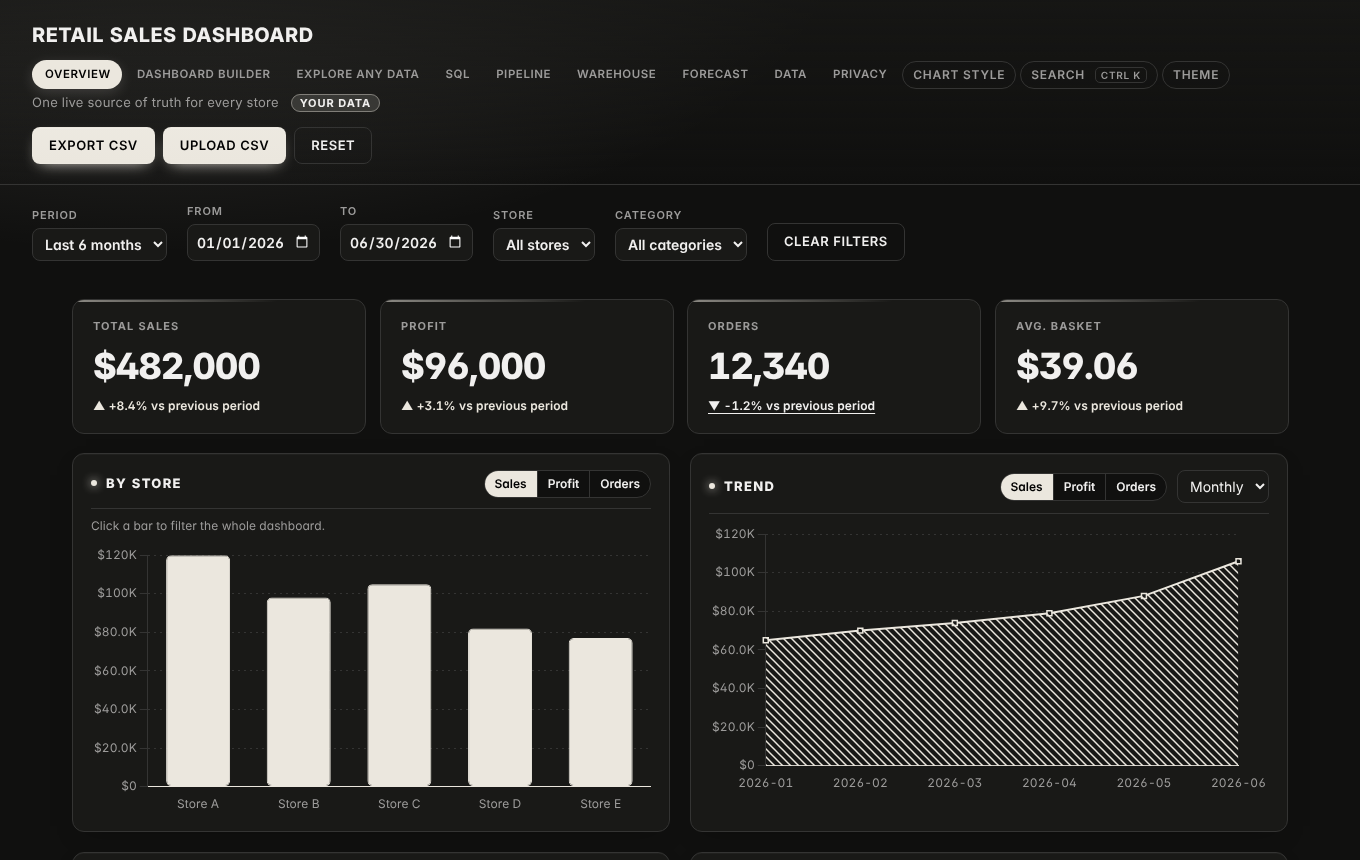
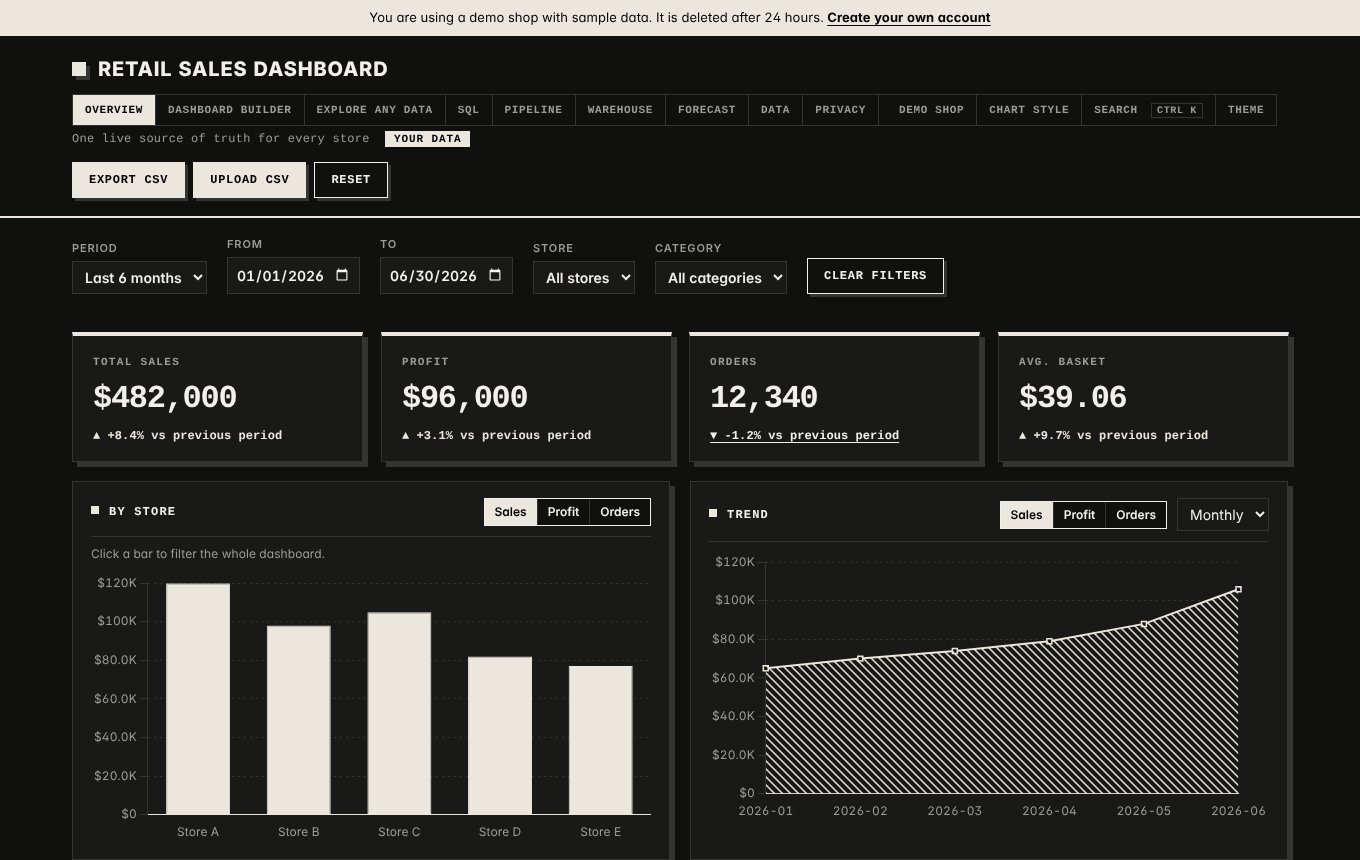
Sharp-edged UI: square boxes, flat page, hard shadows, mono labels; theme menu stays on screen
Claude-Session: https://claude.ai/code/session_01Jgm3jY5ZaZqhHnfvigyi9H

diff --git a/static/style.css b/static/style.css
@@ -5,7 +5,7 @@
 :root {
   --ink: #ebe7de; --paper: #10100f; --surface: #191917; --text: #f1f0ef; --on-accent: #020202;
   --muted: #9c9b9a; --line: #343433; --wash: #1e1d1c; --glow: rgba(235, 231, 222, .16);
-  --shadow: 0 10px 30px rgba(0, 0, 0, .45); --r: 12px; --r-sm: 8px;
+  --shadow: 0 10px 30px rgba(0, 0, 0, .45); --r: 0; --r-sm: 0;
   --bg: var(--paper); --card: var(--surface); --good: var(--ink); --bad: var(--ink); --warn: var(--ink);
   --font: "Inter", "Helvetica Neue", "Segoe UI", Helvetica, Arial, sans-serif;
   color-scheme: dark;
@@ -420,13 +420,13 @@ a.sample:hover { border-color: var(--ink); }
 #audit th:last-child, #audit td:last-child { text-align: left; white-space: normal; min-width: 260px; }
 
 /* =====================================================================================
-   Premium layer: depth, soft corners, motion. It sits on top of the rules above, which
+   Premium layer: depth, motion. It sits on top of the rules above, which
    still define layout, so every page picks it up. All colours come from the theme tokens.
    ===================================================================================== */
 html { scroll-behavior: smooth; }
 html.theme-fade body, html.theme-fade .card, html.theme-fade .kpi, html.theme-fade .widget, html.theme-fade .top,
 html.theme-fade .panel, html.theme-fade .btn, html.theme-fade select, html.theme-fade input { transition: background-color .4s, color .4s, border-color .4s; }
-body { background: radial-gradient(1100px 520px at 12% -8%, var(--glow), transparent 62%) fixed, var(--paper);
+body { background: var(--paper);
        font-feature-settings: "cv11", "ss01", "tnum"; letter-spacing: .005em; animation: page-in .45s ease both; }
 ::selection { background: var(--ink); color: var(--on-accent); }
 :focus-visible { outline: 2px solid var(--ink); outline-offset: 3px; border-radius: var(--r-sm); }
@@ -577,3 +577,95 @@ main > div > section.card, main > section.card { margin-bottom: 18px; }
 .gate-card::before { content: ""; position: absolute; inset: 0 0 auto 0; height: 3px; background: linear-gradient(90deg, var(--ink), transparent); }
 .gate-card .logo { border-radius: 999px; padding: 4px 12px; }
 .gate-card li::before { border-radius: 50%; }
+
+/* =====================================================================================
+   Sharp layer: square boxes, flat page, hard offset shadows. This is the app's own look:
+   ruled panels that lift on a solid block of the accent, mono labels, a square mark.
+   ===================================================================================== */
+:root { --mono: ui-monospace, "SFMono-Regular", "JetBrains Mono", Consolas, "Liberation Mono", Menlo, monospace; --hard: 5px 5px 0 var(--line); --hard-ink: 6px 6px 0 var(--ink); }
+*, *::before, *::after { border-radius: 0 !important; }
+body { background: var(--paper); }
+
+/* header: a ruled bar, a square mark, no gradient */
+.top { background: var(--paper); border-bottom: 2px solid var(--ink); padding: 18px 32px; }
+.top h1 { background: none; color: var(--text); -webkit-background-clip: border-box; background-clip: border-box; letter-spacing: .04em;
+          display: flex; align-items: center; }
+.top h1::before { content: ""; width: 14px; height: 14px; background: var(--ink); margin-right: 12px; flex: none; box-shadow: 4px 4px 0 var(--line); }
+.top p { font-family: var(--mono); font-size: 12px; letter-spacing: .02em; }
+.badge { background: var(--ink); color: var(--on-accent); border-color: var(--ink); }
+
+/* navigation: square tabs, the open page is a solid block */
+.nav { gap: 0; border: 1px solid var(--line); }
+.nav a, .nav a:first-child { border: 0; border-right: 1px solid var(--line); padding: 7px 12px; font-family: var(--mono); font-size: 11px; letter-spacing: .06em; transform: none !important; }
+.nav a:hover { background: var(--wash); color: var(--text); }
+.nav a.on, .nav a.on:first-child { background: var(--ink); color: var(--on-accent); box-shadow: none; }
+.nav a:last-of-type { border-right: 0; }
+.theme-wrap { display: inline-flex; }
+.theme-btn { margin-left: 0; border: 0; border-left: 1px solid var(--line); padding: 7px 12px; font-family: var(--mono); font-size: 11px; transform: none !important; }
+.theme-btn:hover, .theme-btn[aria-expanded="true"] { background: var(--ink); color: var(--on-accent); }
+.theme-btn kbd { border-radius: 0; }
+
+/* buttons: flat blocks with a hard shadow that they press into */
+.btn { background: var(--ink); border: 1px solid var(--ink); box-shadow: 3px 3px 0 var(--line); font-family: var(--mono); font-size: 12px; letter-spacing: .06em; }
+.btn:hover { background: var(--ink); color: var(--on-accent); transform: translate(-1px, -1px); box-shadow: 4px 4px 0 var(--text); }
+.btn:active { transform: translate(3px, 3px); box-shadow: 0 0 0 var(--line); }
+.btn.ghost, .btn.secondary, .btn.danger { background: var(--paper); border: 1px solid var(--text); box-shadow: 3px 3px 0 var(--line); }
+.btn.ghost:hover, .btn.secondary:hover, .btn.danger:hover { background: var(--ink); border-color: var(--ink); color: var(--on-accent); box-shadow: 4px 4px 0 var(--text); }
+.btn:disabled, .btn:disabled:hover { transform: none; box-shadow: none; }
+.btn .ripple { display: none; }
+
+/* inputs */
+select:focus, input:focus, textarea:focus { box-shadow: 3px 3px 0 var(--ink); }
+:focus-visible { outline: 2px solid var(--ink); outline-offset: 3px; }
+
+/* panels: ruled boxes, hard shadow, lifted on hover */
+.card, .widget, .panel, .gate-card, .sample { background: var(--surface); border: 1px solid var(--line); box-shadow: var(--hard); }
+.card:hover, .widget:hover { border-color: var(--ink); box-shadow: var(--hard-ink); transform: translate(-2px, -2px); }
+.panel:hover { transform: none; border-color: var(--line); box-shadow: var(--hard); }
+.card-head { border-bottom: 1px solid var(--line); }
+.card-head h2, .panel h2 { font-family: var(--mono); font-size: 12px; letter-spacing: .1em; text-transform: uppercase; }
+.card-head h2::before { width: 8px; height: 8px; box-shadow: none; margin-right: 10px; vertical-align: 1px; }
+
+/* KPI tiles: a thick accent cap and mono figures */
+.kpis { gap: 18px; }
+.kpis .kpi, .kpis .kpi:nth-child(n) { background: var(--surface); border: 1px solid var(--line); box-shadow: var(--hard); padding: 18px 20px 16px; border-top: 4px solid var(--ink); }
+.kpis .kpi::after { display: none; }
+.kpi:hover { transform: translate(-2px, -2px); border-color: var(--ink); box-shadow: var(--hard-ink); }
+.kpi .label { font-family: var(--mono); font-size: 11px; letter-spacing: .12em; }
+.kpi .value { font-family: var(--mono); font-size: 32px; font-weight: 700; letter-spacing: -.04em; }
+.kpi .delta { font-family: var(--mono); }
+
+.seg { background: var(--paper); border: 1px solid var(--text); }
+.insights li { background: var(--surface); border-left: 4px solid var(--ink); }
+.insights li:hover { transform: translateX(4px); }
+.insights li::before { background: var(--ink); color: var(--on-accent); }
+.field { background: var(--surface); }
+.widget.selected { outline: 2px solid var(--ink); outline-offset: 3px; box-shadow: var(--hard-ink); }
+.icon:hover { transform: none; }
+code { background: var(--wash); border: 1px solid var(--line); }
+table th { font-family: var(--mono); font-size: 11px; letter-spacing: .08em; text-transform: uppercase; }
+.loading { background: linear-gradient(100deg, transparent 20%, var(--wash) 40%, transparent 60%) 100% 0 / 200% 100%, var(--surface); }
+
+/* toasts, palette, demo bar */
+.notice { background: var(--surface); border: 1px solid var(--ink); border-left: 6px solid var(--ink); box-shadow: var(--hard-ink); }
+.demo-bar { background: var(--ink); }
+.cmdk { border: 1px solid var(--ink); box-shadow: var(--hard-ink); }
+.cmdk li { font-family: var(--mono); font-size: 13px; }
+.cmdk-back { background: rgba(0, 0, 0, .55); -webkit-backdrop-filter: none; backdrop-filter: none; }
+.cmdk li .kind i { width: 10px; height: 10px; }
+
+/* theme menu: pinned to the viewport by theme.js so it can never run off the screen */
+.theme-picker.pop { position: fixed; z-index: 120; top: 64px; left: 12px; width: min(600px, calc(100vw - 24px)); max-height: calc(100vh - 80px); overflow: auto;
+                    background: var(--surface); border: 1px solid var(--ink); box-shadow: var(--hard-ink); padding: 18px; }
+.swatches { grid-template-columns: repeat(auto-fill, minmax(104px, 1fr)); }
+.swatch { padding: 10px; border-width: 1px; box-shadow: 3px 3px 0 var(--line); }
+.swatch:hover { transform: translate(-1px, -1px); box-shadow: 4px 4px 0 var(--ink); outline: 0; }
+.swatch .dot { width: 14px; height: 14px; box-shadow: none; }
+.swatch.on { outline: 2px solid var(--ink); outline-offset: 2px; box-shadow: 3px 3px 0 var(--ink); }
+@media (max-width: 640px) { .theme-picker.pop { top: 12px !important; left: 12px !important; right: 12px; width: auto; max-height: calc(100vh - 24px); } .nav { flex-wrap: wrap; } }
+.gate-card::before { height: 4px; background: var(--ink); }
+.gate-card .logo { background: var(--ink); color: var(--on-accent); }
+/* header and filter bar share the page column so everything lines up on wide screens */
+.top, .filters:not(.inline) { padding-left: max(32px, calc((100vw - 1280px) / 2 + 32px)); padding-right: max(32px, calc((100vw - 1280px) / 2 + 32px)); }
+@media (max-width: 640px) { .top, .filters:not(.inline) { padding-left: 16px; padding-right: 16px; } main { padding-left: 16px; padding-right: 16px; } }
+@media (max-width: 640px) { .kpi .value { font-size: 24px; } .kpis { gap: 12px; } }

diff --git a/static/site.js b/static/site.js
@@ -92,7 +92,7 @@ window.Mono = (function () {
     d.font.family = css("--chart-font") || getComputedStyle(document.body).fontFamily || d.font.family;
     d.font.size = 12;
     d.color = muted(); d.borderColor = css("--chart-grid") || fg;
-    d.elements.bar.borderRadius = 5;
+    d.elements.bar.borderRadius = 0;
     d.elements.bar.borderSkipped = false;
     Object.assign(d.animation, { duration: 650, easing: "easeOutQuart" });
     d.transitions.active.animation.duration = 200;
@@ -105,7 +105,7 @@ window.Mono = (function () {
     d.elements.arc.borderColor = fg;
     d.elements.arc.borderWidth = 1;
     Object.assign(d.plugins.tooltip, { backgroundColor: bg, titleColor: css("--text") || ink(), bodyColor: css("--text") || ink(),
-      borderColor: css("--line") || fg, borderWidth: 1, cornerRadius: 10, padding: 10, displayColors: true, boxPadding: 4, caretSize: 6 });
+      borderColor: css("--line") || fg, borderWidth: 1, cornerRadius: 0, padding: 10, displayColors: true, boxPadding: 4, caretSize: 6 });
     Object.assign(d.plugins.legend.labels, { boxWidth: 12, boxHeight: 12, color: text() });
   }
 

diff --git a/static/theme.js b/static/theme.js
@@ -169,7 +169,18 @@
       document.dispatchEvent(new Event("click"));   // close any other open popover first
       pop = make(); pop.classList.add("pop"); pop.onclick = (ev) => ev.stopPropagation();
       wrap.append(pop); b.setAttribute("aria-expanded", "true");
+      place();
     };
+    // Pin the menu to the viewport under the button and keep it fully on screen
+    const place = () => {
+      if (!pop) return;
+      const r = b.getBoundingClientRect(), w = pop.offsetWidth, m = 12;
+      const top = Math.min(Math.max(m, r.bottom + 8), Math.max(m, innerHeight - 160));
+      pop.style.top = top + "px";
+      pop.style.left = Math.max(m, Math.min(r.right - w, innerWidth - w - m)) + "px";
+      pop.style.maxHeight = Math.max(200, innerHeight - top - m) + "px";
+    };
+    window.addEventListener("resize", place);
     document.addEventListener("click", close);
     document.addEventListener("keydown", (e) => { if (e.key === "Escape") close(); });
     wrap.append(b);
